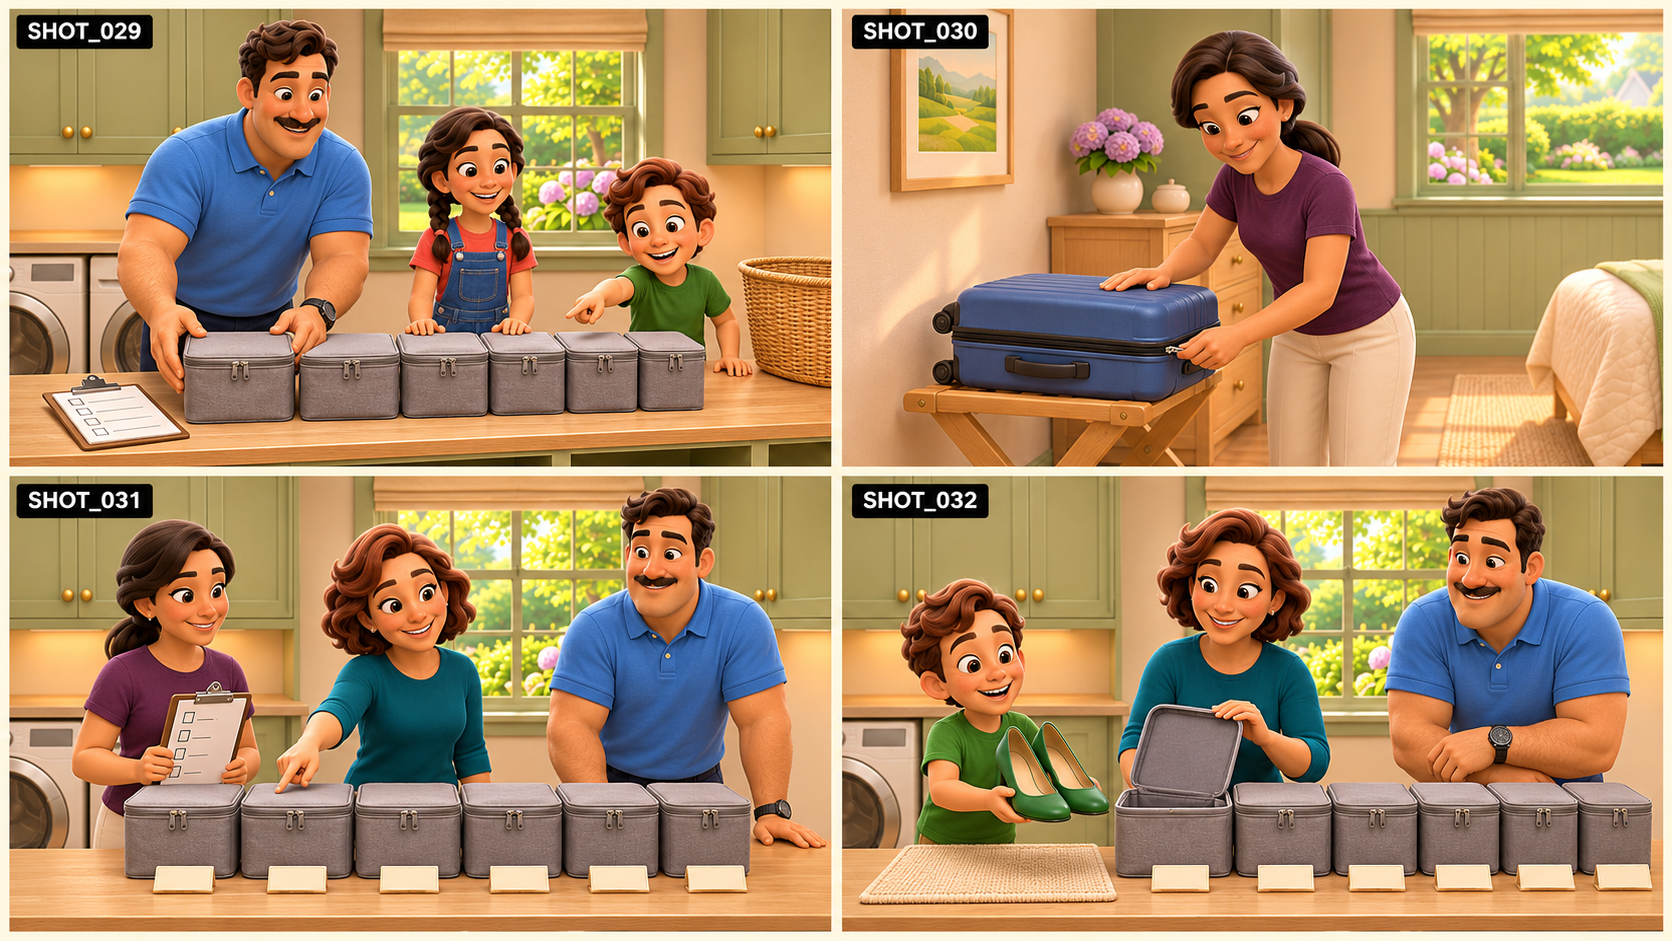
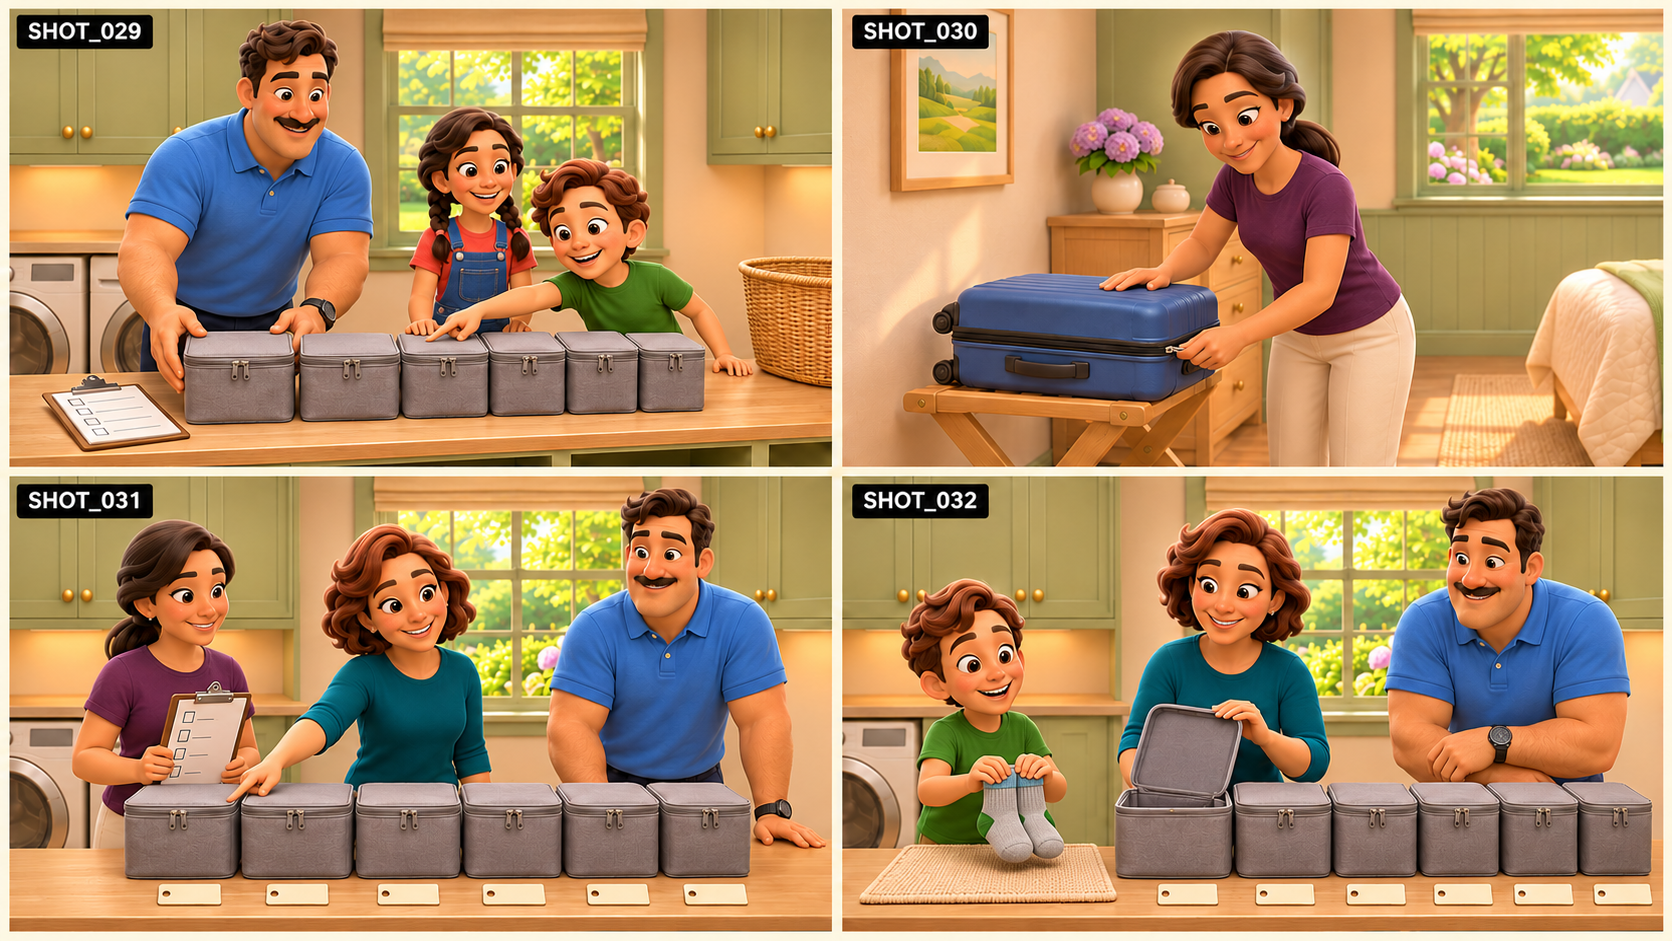
Fix Episode 08 sock and punched-tab storyboard props

diff --git a/docs/STORYBOARD_REPAIR_LOG.md b/docs/STORYBOARD_REPAIR_LOG.md
@@ -7,7 +7,8 @@ The active request is to fix the selected storyboard PNGs themselves. Video-prom
 | Episode / sheet | Verified image change | Recovery and evidence |
 |---|---|---|
 | 01 / BOARD_04 | SHOT_013 now shows Ella raising four fingers for the four carrots. All four panels and printed shot badges were rechecked. | [Selected sheet](../Episode_01/assets/storyboards/BOARD_04.png) · [Correction record](../artwork_qa/records/ep01-board04-counting-correction.json) |
+| 08 / BOARD_08 | SHOT_032 shoes replaced with socks; six flat punched tags restored in031/032;031 points to first cube.029 pointing still needs repair. | [Selected sheet](../Episode_08/assets/storyboards/BOARD_08.png) · [Correction record](../artwork_qa/records/ep08-board08-socks-and-tabs-correction.json) |
 
-Current QA inventory: **324 shots with major visual defects; 476 awaiting human review**. The counting repair removes one documented major discrepancy. Creator acceptance and individual motion-frame approval remain pending. Other storyboard defects have not been declared fixed.
+Current QA inventory: **323 shots with major visual defects; 477 awaiting human review**. Selected repairs remove only the visually verified discrepancies recorded above. Creator acceptance and individual motion-frame approval remain pending. Other storyboard defects have not been declared fixed.
 
 Each selected edit preserves the prior image through its parent Git commit, retains the returned ImageGen source, updates all four panel evidence hashes and records what was visually confirmed. The Episode 01 printed-label audit is refreshed against the new pixels. Corrections are committed and pushed as checkpoints before requesting the next image.

diff --git a/CURRENT_PRODUCTION_STATUS.md b/CURRENT_PRODUCTION_STATUS.md
@@ -4,7 +4,7 @@ The [master audit](docs/AUDIT_EP01_EP10.md) records the current panel findings a
 
 ## Active storyboard repairs — 2026-11-20
 
-The creator has requested fixes to the actual storyboard images and withdrawn the video-prompt workaround. The [image repair log](docs/STORYBOARD_REPAIR_LOG.md) records selected PNG changes and remaining defects. Episode 01 SHOT_013's four-carrot counting gesture is corrected in BOARD_04; creator approval remains pending. Current QA records list 324 major visual discrepancies and 476 shots awaiting human review.
+The creator has requested fixes to the actual storyboard images and withdrawn the video-prompt workaround. The [image repair log](docs/STORYBOARD_REPAIR_LOG.md) records selected PNG changes and remaining defects. Selected corrections and any remaining panel issues are recorded in the repair log; creator approval remains pending. Current QA records list 323 major visual discrepancies and 477 shots awaiting human review.
 
 ## Audit branch validation — 2026-11-19
 
